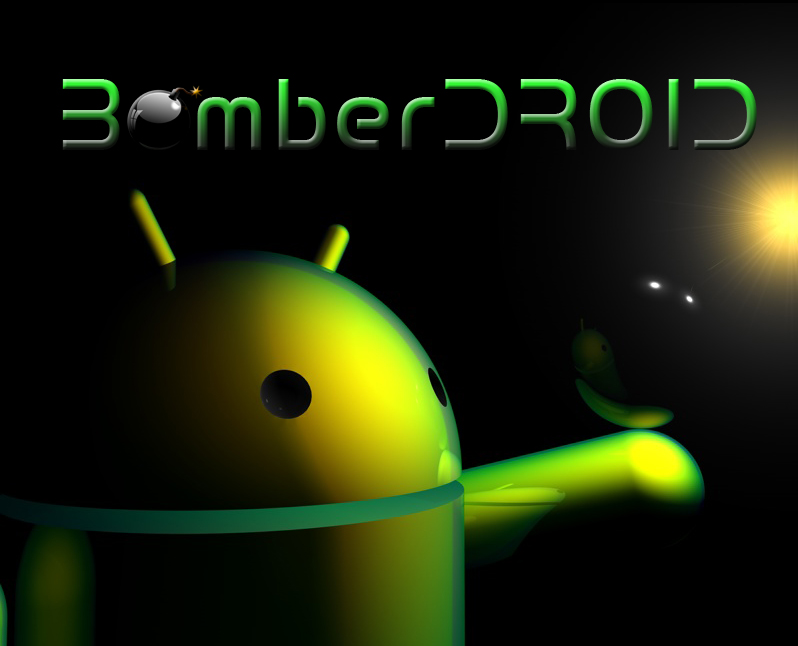
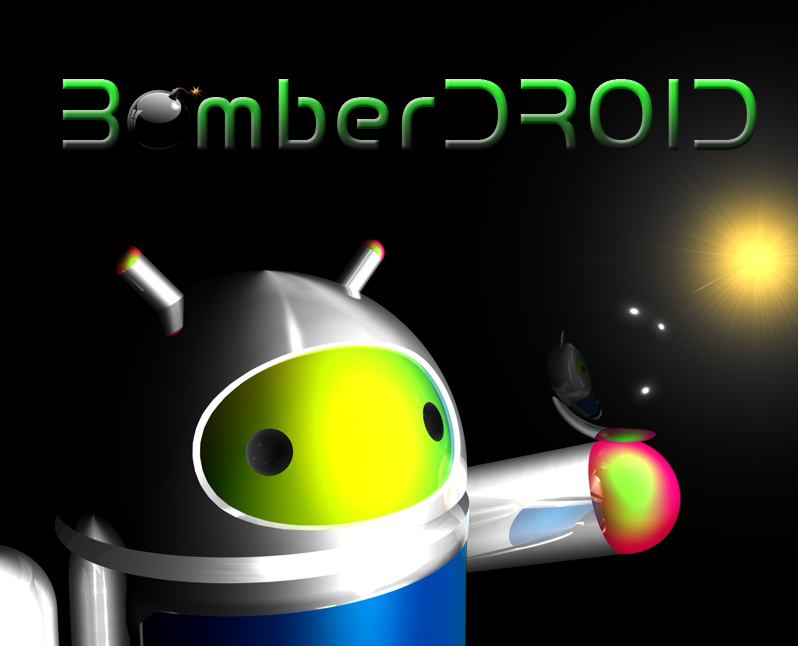
Bilder fuer Spielende hinzugefuegt

diff --git a/src/Interface.java b/src/Interface.java
@@ -1,35 +1,57 @@
-import java.awt.*;
-import java.awt.event.*;
-import javax.swing.*;
+import java.awt.Dimension;
+import java.awt.Graphics;
+import java.awt.GridBagConstraints;
+import java.awt.GridBagLayout;
+import java.awt.Image;
+import java.awt.Insets;
+import java.awt.event.ActionEvent;
+import java.awt.event.ActionListener;
+import java.awt.event.KeyEvent;
+import java.awt.event.KeyListener;
+
+import javax.swing.ImageIcon;
+import javax.swing.JButton;
+import javax.swing.JComboBox;
+import javax.swing.JFrame;
+import javax.swing.JLabel;
+import javax.swing.JPanel;
+import javax.swing.JTextArea;
 
 public class Interface implements KeyListener, ActionListener {
 	static JFrame frame = new JFrame();
-	static JButton single, multi, options, exit, sound, controls, controls2, backtomain,
-			save, backtooptions, rndMapSingle, rndMapMulti, constMap, startGame, startGame2, backtosingle,
-			continueGame, restart, backtomulti;
+	static JButton single, multi, options, exit, sound, controls, controls2,
+			backtomain, save, backtooptions, rndMapSingle, rndMapMulti,
+			constMap, startGame, startGame2, backtosingle, continueGame,
+			restart, backtomulti;
 	static JLabel ctrlmenu, player1, player2, up1, down1, right1, left1, bomb1,
 			up2, down2, right2, left2, bomb2, boxNumber;
 	static JComboBox getBoxNumber;
 	static JPanel menu;
 	public static JPanel game = new JPanel();
+	static JPanel endPic = new JPanel() {
+		public void paintComponent(Graphics g) {
+
+			g.drawImage(GameOverPic.endGame, 0, 0, null);
+		}
+	};
 
 	static JTextArea getUp1, getUp2, getDown1, getDown2, getRight1, getRight2,
 			getLeft1, getLeft2, getBomb1, getBomb2;
-	static String[] amountBoxes = {"10", "20", "30", "40", "50", "60", "70", "80", "90", "100"};
+	static String[] amountBoxes = { "10", "20", "30", "40", "50", "60", "70",
+			"80", "90", "100" };
 	static Dimension dim = new Dimension(200, 25);
 	static Image img = new ImageIcon("src/Pictures/menubg.jpg").getImage();
 	static Image Button = new ImageIcon("src/Pictures/button.png").getImage();
 
 	public Interface() {
-		
-		/*Frame initialisieren*/
+
+		/* Frame initialisieren */
 		frame.setTitle("BomberDroid!");
 		frame.setSize(800, 662);
 		frame.setResizable(false);
 		frame.setDefaultCloseOperation(JFrame.EXIT_ON_CLOSE);
 		frame.setLocationRelativeTo(null);
-		
-		
+
 		menu = new JPanel(new GridBagLayout());
 		single = new JButton("Singleplayer");
 		multi = new JButton("Multiplayer");
@@ -111,6 +133,8 @@ public class Interface implements KeyListener, ActionListener {
 		getBomb1.addKeyListener(this);
 		getBomb2.addKeyListener(this);
 		game.addKeyListener(this);
+		endPic.addKeyListener(this);
+
 		Menue.MainMenu();
 		frame.add(menu);
 	}
@@ -192,33 +216,30 @@ public class Interface implements KeyListener, ActionListener {
 		}
 
 	}
-	
-
 
 	private void Boxes() {
-		if (getBoxNumber.getSelectedItem()== "10"){
+		if (getBoxNumber.getSelectedItem() == "10") {
 			Init.maxKisten = 10;
-		} else if (getBoxNumber.getSelectedItem()== "20"){
+		} else if (getBoxNumber.getSelectedItem() == "20") {
 			Init.maxKisten = 20;
-		} else if (getBoxNumber.getSelectedItem()== "30"){
+		} else if (getBoxNumber.getSelectedItem() == "30") {
 			Init.maxKisten = 30;
-		} else if (getBoxNumber.getSelectedItem()== "40"){
+		} else if (getBoxNumber.getSelectedItem() == "40") {
 			Init.maxKisten = 40;
-		} else if (getBoxNumber.getSelectedItem()== "50"){
+		} else if (getBoxNumber.getSelectedItem() == "50") {
 			Init.maxKisten = 50;
-		} else if (getBoxNumber.getSelectedItem()== "60"){
+		} else if (getBoxNumber.getSelectedItem() == "60") {
 			Init.maxKisten = 60;
-		} else if (getBoxNumber.getSelectedItem()== "70"){
+		} else if (getBoxNumber.getSelectedItem() == "70") {
 			Init.maxKisten = 70;
-		} else if (getBoxNumber.getSelectedItem()== "80"){
+		} else if (getBoxNumber.getSelectedItem() == "80") {
 			Init.maxKisten = 80;
-		} else if (getBoxNumber.getSelectedItem()== "90"){
+		} else if (getBoxNumber.getSelectedItem() == "90") {
 			Init.maxKisten = 90;
-		} else if (getBoxNumber.getSelectedItem()== "100"){
+		} else if (getBoxNumber.getSelectedItem() == "100") {
 			Init.maxKisten = 100;
 		}
-		
-		
+
 	}
 
 	public static void displayCtrl() {
@@ -245,8 +266,20 @@ public class Interface implements KeyListener, ActionListener {
 		game.setVisible(true);
 	}
 
+	public static void invisPicOpenMenu() {
+		endPic.setVisible(false);
+		menu.setVisible(true);
+
+	}
+
 	public void keyPressed(KeyEvent e) {
-		String Key = Eingabe.Ctrl(e);
+
+		if (GameOverPic.picOn == true) {
+			invisPicOpenMenu();
+
+		} else {
+			String Key = Eingabe.Ctrl(e);
+		}
 	}
 
 	public void keyReleased(KeyEvent e) {

diff --git a/src/Bomb.java b/src/Bomb.java
@@ -5,8 +5,8 @@ public class Bomb extends JPanel {
 	Boolean ob, ub, lb, rb, det;
 	int x, y, o, u, l, r, num;
 	static Bomb[] bombs = Init.bombs();
-	
-	public Bomb(Player player){
+
+	public Bomb(Player player) {
 		this.x = player.x;
 		this.y = player.y;
 		this.o = 0;
@@ -25,17 +25,15 @@ public class Bomb extends JPanel {
 		Field.bombPos[bomb.x][bomb.y] = true;
 		Field.f = new Field();
 		Field.f.newPaint();
-		
-		if (Init.MP){
-			if (player == Init.Player1){
+
+		if (Init.MP) {
+			if (player == Init.Player1) {
 				bombs[player.bP] = bomb;
-			}
-			else
+			} else
 				bombs[player.bP + 3] = bomb;
-		}
-		else
+		} else
 			bombs[player.bP] = bomb;
-		
+
 		bomb.num = player.bP;
 		player.bP += 1;
 	}
@@ -47,28 +45,28 @@ public class Bomb extends JPanel {
 		for (int gor = 1; gor <= bomb.r; gor++) {
 			isGameOver(Field.fieldNumbers[bomb.x + gor][bomb.y]);
 			Field.fieldNumbers[bomb.x + gor][bomb.y] = 8;
-			if (Field.bombPos[bomb.x + gor][bomb.y]){
+			if (Field.bombPos[bomb.x + gor][bomb.y]) {
 				Field.expPos[bomb.x + gor][bomb.y] = true;
 			}
 		}
 		for (int gol = 1; gol <= bomb.l; gol++) {
 			isGameOver(Field.fieldNumbers[bomb.x - gol][bomb.y]);
 			Field.fieldNumbers[bomb.x - gol][bomb.y] = 8;
-			if (Field.bombPos[bomb.x + gol][bomb.y]){
+			if (Field.bombPos[bomb.x + gol][bomb.y]) {
 				Field.expPos[bomb.x + gol][bomb.y] = true;
 			}
 		}
 		for (int goo = 1; goo <= bomb.o; goo++) {
 			isGameOver(Field.fieldNumbers[bomb.x][bomb.y - goo]);
 			Field.fieldNumbers[bomb.x][bomb.y - goo] = 8;
-			if (Field.bombPos[bomb.x][bomb.y - goo]){
+			if (Field.bombPos[bomb.x][bomb.y - goo]) {
 				Field.expPos[bomb.x][bomb.y - goo] = true;
 			}
 		}
 		for (int gou = 1; gou <= bomb.u; gou++) {
 			isGameOver(Field.fieldNumbers[bomb.x][bomb.y + gou]);
 			Field.fieldNumbers[bomb.x][bomb.y + gou] = 8;
-			if (Field.bombPos[bomb.x][bomb.y + gou]){
+			if (Field.bombPos[bomb.x][bomb.y + gou]) {
 				Field.expPos[bomb.x][bomb.y + gou] = true;
 			}
 		}
@@ -78,10 +76,8 @@ public class Bomb extends JPanel {
 		player.bP -= 1;
 	}
 
-	
-
 	public static void endDetonation(Bomb bomb) {
-				
+
 		bomb.det = false;
 		bombs[bomb.num] = bomb;
 		for (int gor = 1; gor <= bomb.r; gor++) {
@@ -98,7 +94,7 @@ public class Bomb extends JPanel {
 		}
 		isGameOver(Field.fieldNumbers[bomb.x][bomb.y]);
 		Field.fieldNumbers[bomb.x][bomb.y] = 0;
-		
+
 		if (Field.fieldNumbers[Init.ex][Init.ey] == 0) {
 			Field.fieldNumbers[Init.ex][Init.ey] = 9;
 		}
@@ -117,13 +113,17 @@ public class Bomb extends JPanel {
 		if (coord == 3) {
 			System.out.println("Spieler 2 siegt");
 			Init.reset();
-			Interface.closeGameOpenMenu();
-			Menue.MainMenu();
-		} else 		if (coord == 4) {
+			GameOverPic.pic=1;
+			GameOverPic.DrawPic();
+			// Interface.closeGameOpenMenu();
+			// Menue.MainMenu();
+		} else if (coord == 4) {
 			System.out.println("Spieler 1 siegt");
 			Init.reset();
-			Interface.closeGameOpenMenu();
-			Menue.MainMenu();
+			GameOverPic.pic=1;
+			GameOverPic.DrawPic();
+			// Interface.closeGameOpenMenu();
+			// Menue.MainMenu();
 		}
 	}
 

diff --git a/src/GameOverPic.java b/src/GameOverPic.java
@@ -1,0 +1,42 @@
+import java.awt.image.BufferedImage;
+import java.io.File;
+import java.io.IOException;
+
+import javax.imageio.ImageIO;
+
+public class GameOverPic {
+
+	public static Boolean picOn;
+	static BufferedImage endGame;
+	static int pic;
+
+	public static void LoadPic() {
+		
+		if(pic==1){
+		try {
+			endGame = ImageIO.read(new File("src/Pictures/Game_over2.jpg"));
+		} catch (IOException e) {
+			System.out.println("Game_over2.jpg konnte nicht gemalt werden");
+		}
+		} else if(pic==2){
+			try {
+				endGame = ImageIO.read(new File("src/Pictures/bd_exit2_2.jpg"));
+			} catch (IOException e) {
+				System.out.println("bd_exit2_2.jpg konnte nicht gemalt werden");
+			}
+			}
+
+	}
+
+	public static void DrawPic() {
+		LoadPic();
+		picOn = true;
+		Interface.endPic.setFocusable(true);
+		Interface.frame.add(Interface.endPic);
+		Interface.game.setVisible(false);
+		Interface.endPic.setVisible(true);
+		Menue.MainMenu();
+
+	}
+
+}

diff --git a/src/Movement.java b/src/Movement.java
@@ -46,8 +46,8 @@ public class Movement {
 			return true;
 		else if (coord == 9) {
 			Init.reset();
-			Interface.closeGameOpenMenu();
-			Menue.MainMenu();
+			GameOverPic.pic=2;
+			GameOverPic.DrawPic();
 		}
 		return false;
 	}
